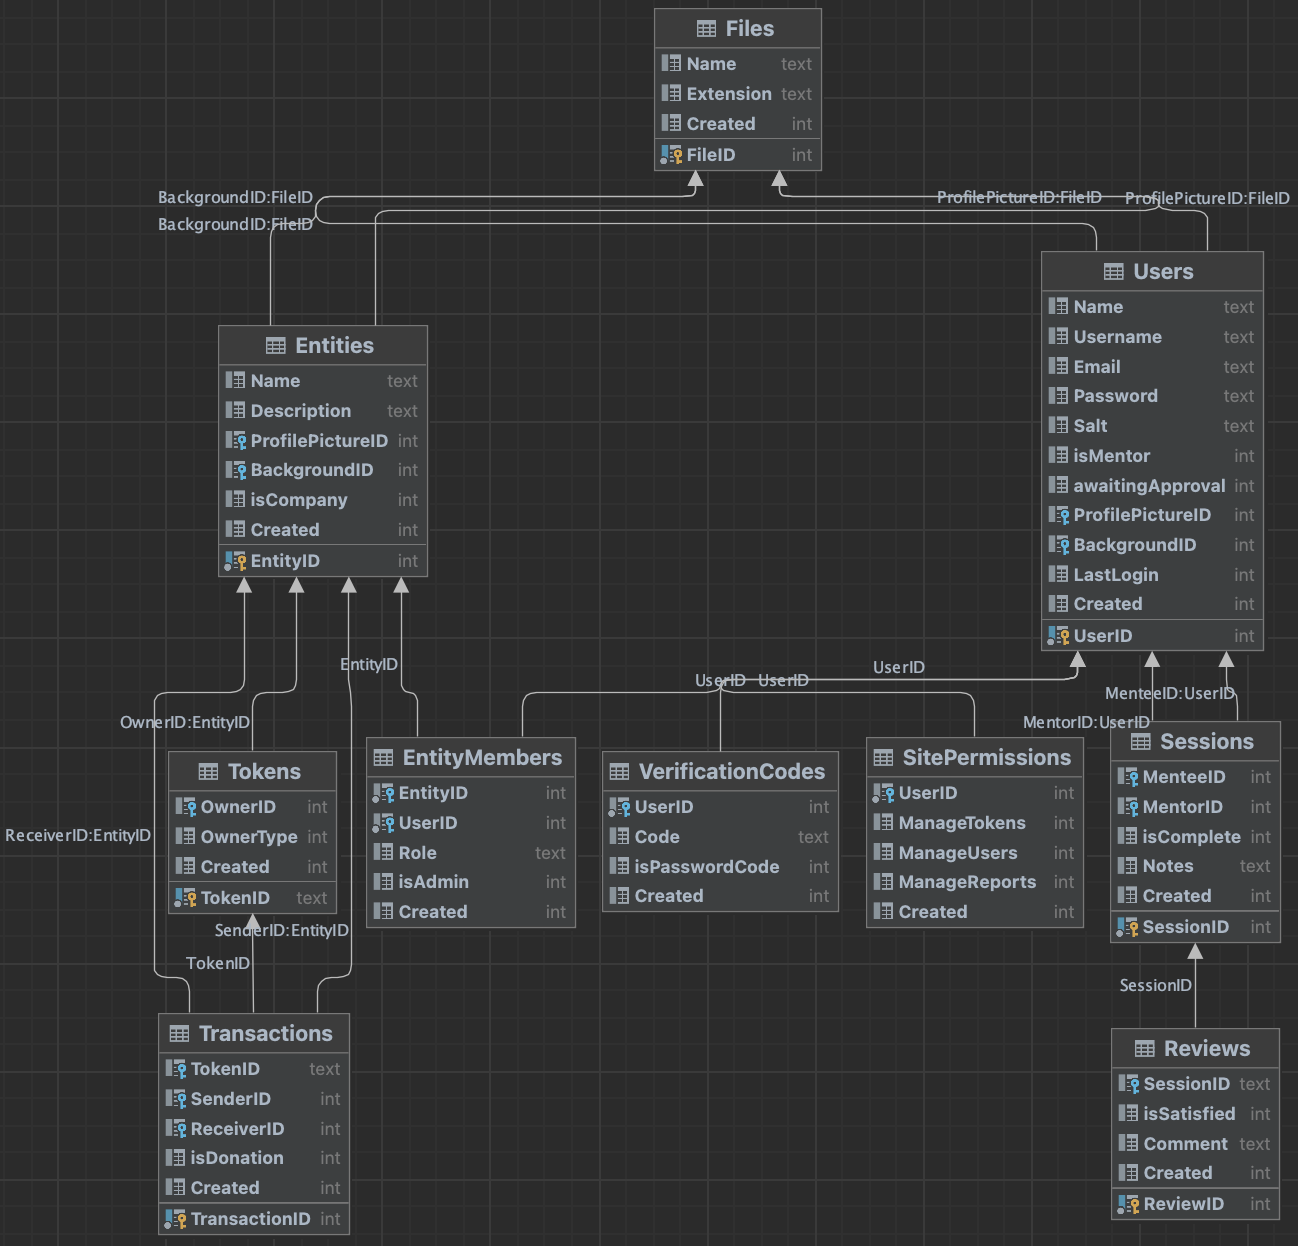
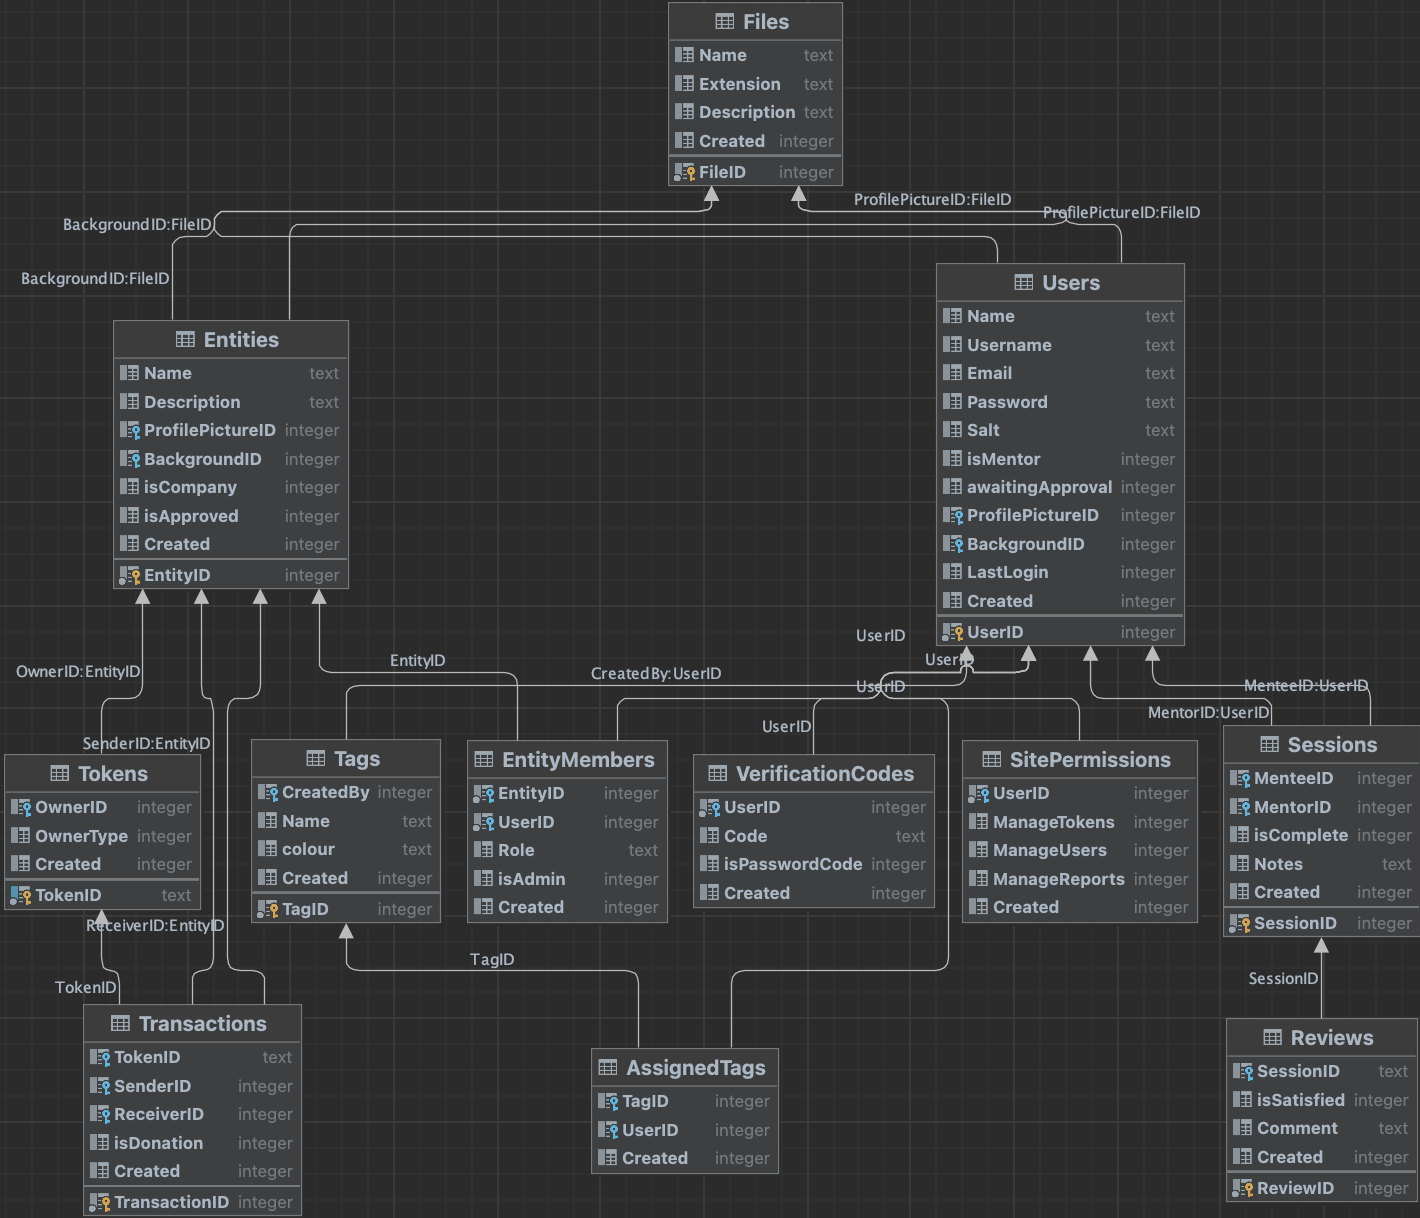
Added login.py, Added checks to see if a user is logged in to auth methods & updated the database model

diff --git a/blueprints/register.py b/blueprints/register.py
@@ -9,123 +9,131 @@ from logic.email import Email
 
 register = Blueprint('register', __name__)
 
-
 @register.route('/register')
 def register_page():
-    return render_template('auth/register.html')
+    if not ("UserID" in session):
+        return render_template('auth/register.html')
+    else:
+        return redirect("/account/dashboard")
 
 @register.route('/verify')
 def verify_auth():
-    # Get the code from the URL and inherit classes
-    code = request.args.get("code")
+    if not ("UserID" in session):
+        # Get the code from the URL and inherit classes
+        code = request.args.get("code")
 
-    verificationCodesRepository = VerificationCodesRepository()
+        verificationCodesRepository = VerificationCodesRepository()
 
-    # Check if the code exists
-    if code is not None:
-        data = verificationCodesRepository.getWithVerifyCode(code)
-        if data is not None:
-            # Delete the verification code and redirect to the login page
-            verificationCodesRepository.delete(code)
-            return redirect("/login")
+        # Check if the code exists
+        if code is not None:
+            data = verificationCodesRepository.getWithVerifyCode(code)
+            if data is not None:
+                # Delete the verification code and redirect to the login page
+                verificationCodesRepository.delete(code)
+                return redirect("/login")
 
-    return render_template('auth/verify.html')
+        return render_template('auth/verify.html')
+    else:
+        return redirect("/account/dashboard")
 
 @register.route('/auth/register', methods=['POST'])
 def register_auth():
-    # Get the JSON payload from the request and inherit classes
-    data = request.get_json()
+    if not ("UserID" in session):
+        # Get the JSON payload from the request and inherit classes
+        data = request.get_json()
 
-    accountRepository = AccountRepository()
-    verificationCodesRepository = VerificationCodesRepository()
-    cryptography = Cryptography()
+        accountRepository = AccountRepository()
+        verificationCodesRepository = VerificationCodesRepository()
+        cryptography = Cryptography()
 
-    # Run a series of validation checks on the JSON payload
+        # Run a series of validation checks on the JSON payload
 
-    # Check if the JSON exists
-    if data is None:
-        return "No JSON payload was uploaded with the request!", 400
+        # Check if the JSON exists
+        if data is None:
+            return "No JSON payload was uploaded with the request!", 400
 
-    # Check if the JSON has the required fields
-    if "name" not in data or "username" not in data or "email" not in data or \
-            "password" not in data or "repeatPassword" not in data or "isMentor" not in data:
-        return "The JSON payload is missing required fields!", 400
+        # Check if the JSON has the required fields
+        if "name" not in data or "username" not in data or "email" not in data or \
+                "password" not in data or "repeatPassword" not in data or "isMentor" not in data:
+            return "The JSON payload is missing required fields!", 400
 
-    # Check if the JSON has the correct field types
-    if not type(data["name"]) is str or not type(data["username"]) is str or not type(data["email"]) is str or \
-            not type(data["password"]) is str or not type(data["repeatPassword"]) is str or not type(data["isMentor"]) is bool:
-        return "The JSON payload has incorrect field types!", 400
+        # Check if the JSON has the correct field types
+        if not type(data["name"]) is str or not type(data["username"]) is str or not type(data["email"]) is str or \
+                not type(data["password"]) is str or not type(data["repeatPassword"]) is str or not type(data["isMentor"]) is bool:
+            return "The JSON payload has incorrect field types!", 400
 
-    # Check if the password is long enough
-    if len(data["password"]) < 8:
-        return "The password must be at least 8 characters long!", 406
+        # Check if the password is long enough
+        if len(data["password"]) < 8:
+            return "The password must be at least 8 characters long!", 406
 
-    # Check if the email is valid
-    if "@" not in data["email"] or "." not in data["email"]:
-        return "This email is invalid! It must contain a '@' symbol and a '.' character", 406
+        # Check if the email is valid
+        if "@" not in data["email"] or "." not in data["email"]:
+            return "This email is invalid! It must contain a '@' symbol and a '.' character", 406
 
-    # Check if the username is valid
-    if len(data["username"]) < 3 or len(data["username"].split(" ")) > 1:
-        return "This username is invalid! It must be at least 3 characters and contain no whitespace.", 406
+        # Check if the username is valid
+        if len(data["username"]) < 3 or len(data["username"].split(" ")) > 1:
+            return "This username is invalid! It must be at least 3 characters and contain no whitespace.", 406
 
-    # Check if the email is already in use
-    if accountRepository.getWithEmail(data["email"]) is not None:
-        return "This email is already in use!", 406
+        # Check if the email is already in use
+        if accountRepository.getWithEmail(data["email"]) is not None:
+            return "This email is already in use!", 406
 
-    # Check if the username is already in use
-    if accountRepository.getWithUsername(data["username"]) is not None:
-        return "This username is already in use!", 406
+        # Check if the username is already in use
+        if accountRepository.getWithUsername(data["username"]) is not None:
+            return "This username is already in use!", 406
 
-    # All checks have passed so proceed with registration
+        # All checks have passed so proceed with registration
 
-    # Create a salt and hash the password
-    salt = cryptography.createSalt()
-    hashedPassword = cryptography.digest(data["password"] + salt)
+        # Create a salt and hash the password
+        salt = cryptography.createSalt()
+        hashedPassword = cryptography.digest(data["password"] + salt)
 
-    # Sourced from: https://www.tutorialspoint.com/how-to-convert-datetime-to-an-integer-in-python
-    currentTime = int(datetime.datetime.now().timestamp())
+        # Sourced from: https://www.tutorialspoint.com/how-to-convert-datetime-to-an-integer-in-python
+        currentTime = int(datetime.datetime.now().timestamp())
 
-    # Insert the account into the database
-    # Check if the user is a mentor and if so set awaitingApproval to true
-    if data["isMentor"]:
-        accountRepository.insert({
-            "name": data["name"],
-            "username": data["username"],
-            "email": data["email"],
-            "password": hashedPassword,
-            "salt": salt,
-            "isMentor": data["isMentor"],
-            "awaitingApproval": True,
+        # Insert the account into the database
+        # Check if the user is a mentor and if so set awaitingApproval to true
+        if data["isMentor"]:
+            accountRepository.insert({
+                "name": data["name"],
+                "username": data["username"],
+                "email": data["email"],
+                "password": hashedPassword,
+                "salt": salt,
+                "isMentor": data["isMentor"],
+                "awaitingApproval": True,
+                "created": currentTime
+            })
+        else:
+            accountRepository.insert({
+                "name": data["name"],
+                "username": data["username"],
+                "email": data["email"],
+                "password": hashedPassword,
+                "salt": salt,
+                "isMentor": data["isMentor"],
+                "awaitingApproval": False,
+                "created": currentTime
+            })
+
+        # Create a verification code
+        verificationCode = cryptography.createUUID()
+
+        # Send the verification code to the user via email
+        Email.send(
+            "Verify your email address",
+            f"Please follow the link below to verify your account\n{os.environ['domain']}/verify?code={verificationCode}",
+            data["email"])
+
+        # Insert the verification code into the database
+        verificationCodesRepository.insert({
+            "userID": accountRepository.getWithEmail(data["email"])[0],
+            "code": verificationCode,
+            "isPasswordCode": False,
             "created": currentTime
         })
+
+        # Return a success message
+        return "Account created successfully!", 200
     else:
-        accountRepository.insert({
-            "name": data["name"],
-            "username": data["username"],
-            "email": data["email"],
-            "password": hashedPassword,
-            "salt": salt,
-            "isMentor": data["isMentor"],
-            "awaitingApproval": False,
-            "created": currentTime
-        })
-
-    # Create a verification code
-    verificationCode = cryptography.createUUID()
-
-    # Send the verification code to the user via email
-    Email.send(
-        "Verify your email address",
-        f"Please follow the link below to verify your account\n{os.environ['domain']}/verify?code={verificationCode}",
-        data["email"])
-
-    # Insert the verification code into the database
-    verificationCodesRepository.insert({
-        "userID": accountRepository.getWithEmail(data["email"])[0],
-        "code": verificationCode,
-        "isPasswordCode": False,
-        "created": currentTime
-    })
-
-    # Return a success message
-    return "Account created successfully!", 200
+        return "You are already logged into an account.", 400

diff --git a/blueprints/login.py b/blueprints/login.py
@@ -1,0 +1,17 @@
+from flask import Flask, Blueprint, render_template, request, redirect, session
+import datetime
+import os
+
+from data.accountRepository import AccountRepository
+from data.verificationCodesRepository import VerificationCodesRepository
+from logic.cryptography import Cryptography
+from logic.email import Email
+
+register = Blueprint('login', __name__)
+
+@register.route('/login')
+def login_page():
+    if not ("UserID" in session):
+        return render_template('auth/login.html')
+    else:
+        return redirect("/account/dashboard")
